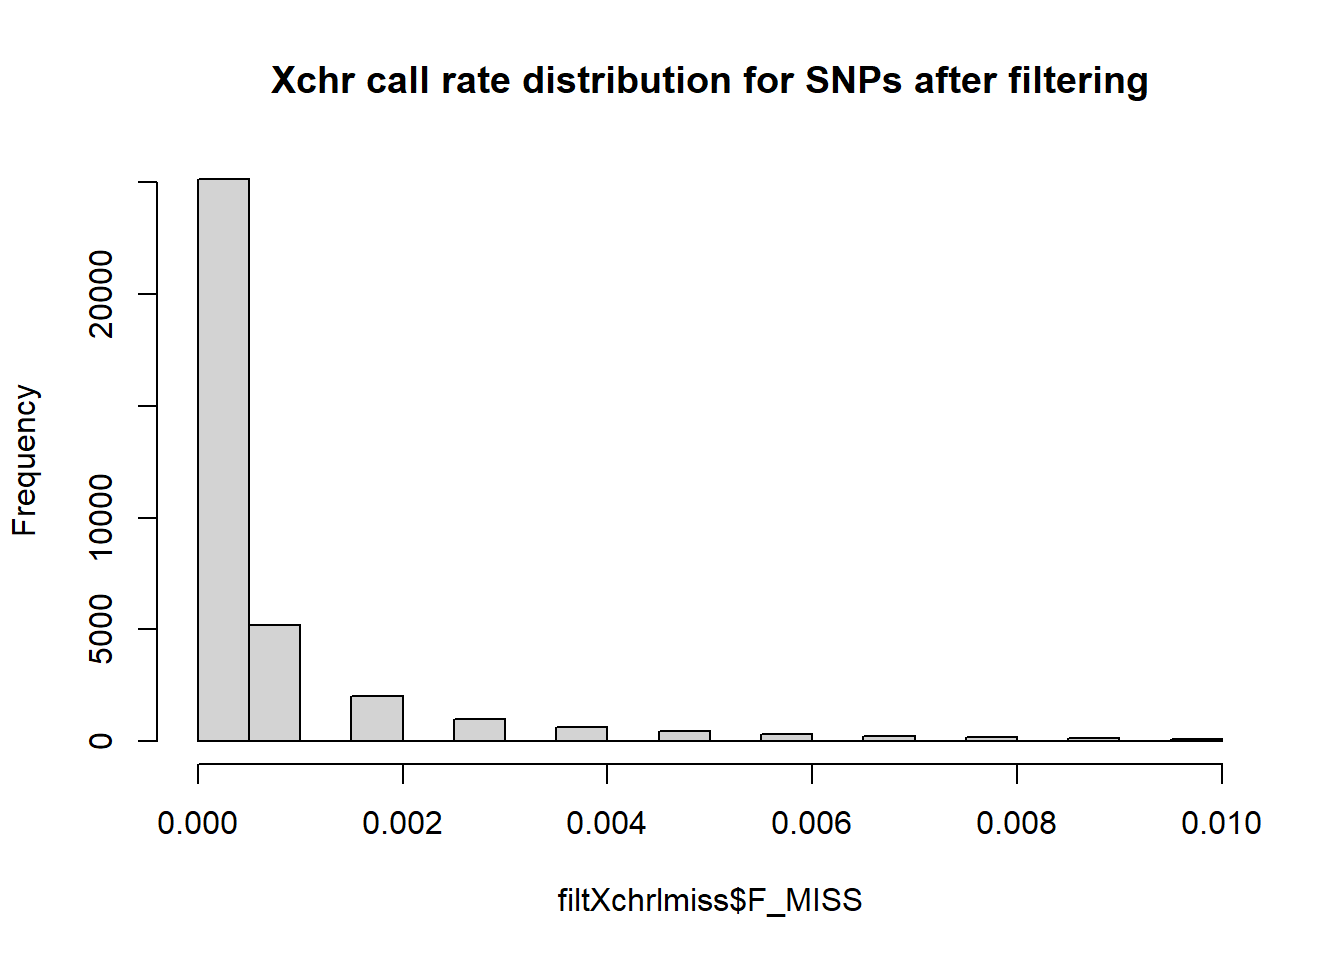
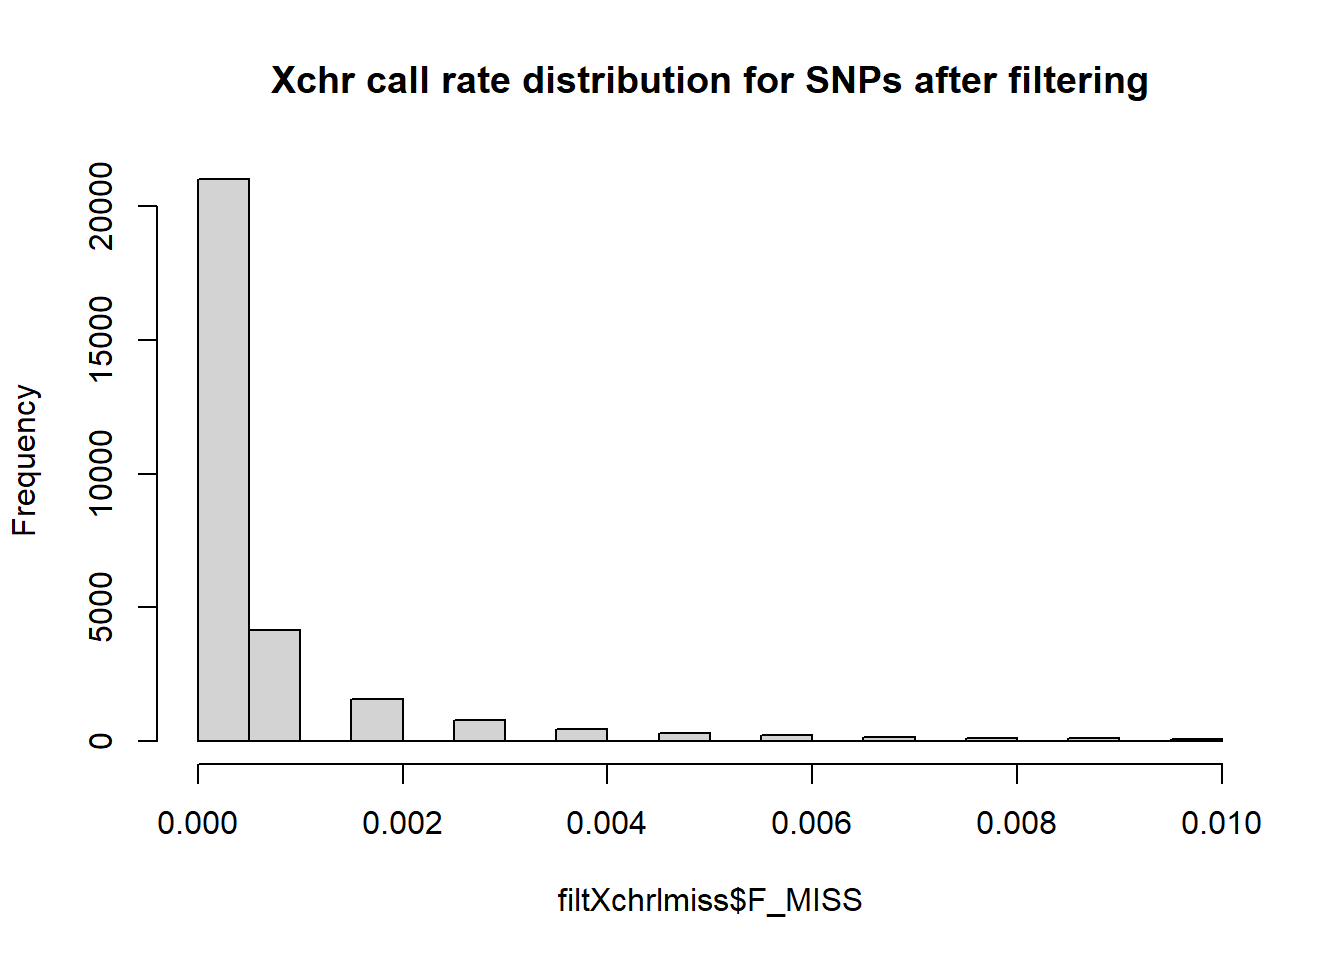
Build site.

diff --git a/docs/missing_filt.html b/docs/missing_filt.html
@@ -11,6 +11,7 @@
 
 <meta name="author" content="Daniel Araujo" />
 
+<meta name="date" content="2020-11-23" />
 
 <title>Missingness Filtering</title>
 
@@ -26,6 +27,8 @@
 <script src="site_libs/navigation-1.1/tabsets.js"></script>
 <link href="site_libs/highlightjs-9.12.0/textmate.css" rel="stylesheet" />
 <script src="site_libs/highlightjs-9.12.0/highlight.js"></script>
+<link href="site_libs/font-awesome-5.1.0/css/all.css" rel="stylesheet" />
+<link href="site_libs/font-awesome-5.1.0/css/v4-shims.css" rel="stylesheet" />
 
 <link rel="icon" href="https://github.com/workflowr/workflowr-assets/raw/master/img/reproducible.png">
 <!-- Add a small amount of space between sections. -->
@@ -367,7 +370,13 @@ div.tocify {
 </li>
       </ul>
       <ul class="nav navbar-nav navbar-right">
-        
+        <li>
+  <a href="https://github.com/danielsarj/ChrXYM_Project">
+    <span class="fa fa-github"></span>
+     
+    Source code
+  </a>
+</li>
       </ul>
     </div><!--/.nav-collapse -->
   </div><!--/.container -->
@@ -379,7 +388,7 @@ div.tocify {
 
 <h1 class="title toc-ignore">Missingness Filtering</h1>
 <h4 class="author">Daniel Araujo</h4>
-<h4 class="date">2020/11/05</h4>
+<h4 class="date">2020-11-23</h4>
 
 </div>
 
@@ -404,7 +413,7 @@ div.tocify {
 <div class="tab-content">
 <div id="summary" class="tab-pane fade in active">
 <p>
-<strong>Last updated:</strong> 2020-11-10
+<strong>Last updated:</strong> 2020-11-23
 </p>
 <p>
 <strong>Checks:</strong> <span class="glyphicon glyphicon-ok text-success" aria-hidden="true"></span> 7 <span class="glyphicon glyphicon-exclamation-sign text-danger" aria-hidden="true"></span> 0
@@ -495,21 +504,24 @@ This reproducible <a href="http://rmarkdown.rstudio.com">R Markdown</a> analysis
 <div class="panel panel-default">
 <div class="panel-heading">
 <p class="panel-title">
-<a data-toggle="collapse" data-parent="#workflowr-checks" href="#strongRepositoryversionstrongc55a045"> <span class="glyphicon glyphicon-ok text-success" aria-hidden="true"></span> <strong>Repository version:</strong> c55a045 </a>
+<a data-toggle="collapse" data-parent="#workflowr-checks" href="#strongRepositoryversionstrongahrefhttpsgithubcomdanielsarjChrXYMProjecttree0f33384fb94d1563a130bc3277aca84e72a6fbc0targetblank0f33384a"> <span class="glyphicon glyphicon-ok text-success" aria-hidden="true"></span> <strong>Repository version:</strong> <a href="https://github.com/danielsarj/ChrXYM_Project/tree/0f33384fb94d1563a130bc3277aca84e72a6fbc0" target="_blank">0f33384</a> </a>
 </p>
 </div>
-<div id="strongRepositoryversionstrongc55a045" class="panel-collapse collapse">
[1 lines of base64/hex data omitted]
 <div class="panel-body">
 <p>
 Great! You are using Git for version control. Tracking code development and connecting the code version to the results is critical for reproducibility.
 </p>
 <p>
-The results in this page were generated with repository version c55a045. See the <em>Past versions</em> tab to see a history of the changes made to the R Markdown and HTML files.
+The results in this page were generated with repository version <a href="https://github.com/danielsarj/ChrXYM_Project/tree/0f33384fb94d1563a130bc3277aca84e72a6fbc0" target="_blank">0f33384</a>. See the <em>Past versions</em> tab to see a history of the changes made to the R Markdown and HTML files.
 </p>
 <p>
 Note that you need to be careful to ensure that all relevant files for the analysis have been committed to Git prior to generating the results (you can use <code>wflow_publish</code> or <code>wflow_git_commit</code>). workflowr only checks the R Markdown file, but you know if there are other scripts or data files that it depends on. Below is the status of the Git repository when the results were generated:
 </p>
 <pre><code>
+Ignored files:
+    Ignored:    .Rhistory
+
 Untracked files:
     Untracked:  SITE_WORKFLOW.Rmd
 
@@ -555,7 +567,41 @@ Message
 Rmd
 </td>
 <td>
-c55a045
+<a href="https://github.com/danielsarj/ChrXYM_Project/blob/0f33384fb94d1563a130bc3277aca84e72a6fbc0/analysis/missing_filt.Rmd" target="_blank">0f33384</a>
+</td>
+<td>
+Daniel Araujo
+</td>
+<td>
+2020-11-23
+</td>
+<td>
+Update Missingness
+</td>
+</tr>
+<tr>
+<td>
+html
+</td>
+<td>
+<a href="https://rawcdn.githack.com/danielsarj/ChrXYM_Project/6ea38d175b87fcb5bffea47c8daedca421e5e365/docs/missing_filt.html" target="_blank">6ea38d1</a>
+</td>
+<td>
+Daniel Araujo
+</td>
+<td>
+2020-11-10
+</td>
+<td>
+Build site.
+</td>
+</tr>
+<tr>
+<td>
+Rmd
+</td>
+<td>
+<a href="https://github.com/danielsarj/ChrXYM_Project/blob/c55a045f1f27c82d34679c864ad2a479388354b5/analysis/missing_filt.Rmd" target="_blank">c55a045</a>
 </td>
 <td>
 Daniel Araujo
@@ -576,7 +622,7 @@ Start project
 </div>
 <div id="introduction" class="section level2">
 <h2>Introduction</h2>
-<p>The first QC step consists of filtering out variants with low call rate.</p>
+<p>The first QC step consists of filtering out variants with low call rate and minor allele frequency.</p>
 </div>
 <div id="initial-missingness-rate-statistics" class="section level2">
 <h2>1. Initial missingness rate statistics</h2>
@@ -597,8 +643,8 @@ Start project
 </div>
 <div id="variants-filtering" class="section level2">
 <h2>2. Variants filtering</h2>
-<pre class="r"><code>plink --bfile MESA_nonauto --geno 0.01 --make-bed --out MESA_missfilt</code></pre>
-<p>New bim/bed/fam files were generated filtering out variants with missing call rates above 0.01. 1113 out of 37266 (~2.99%) variants were removed.</p>
+<pre class="r"><code>plink --bfile MESA_nonauto --geno 0.01 --maf 0.05 --make-bed --out MESA_missfilt</code></pre>
+<p>New bim/bed/fam files were generated filtering out variants with missing call rates above 0.01 and minor allele frequency below 0.05. 1113 and 6593 variants were removed due to missing call rate and minor allele frequency threshold, respectively. 29560 variants were left.</p>
 <hr />
 </div>
 <div id="new-missingness-rate-statistics" class="section level2">
